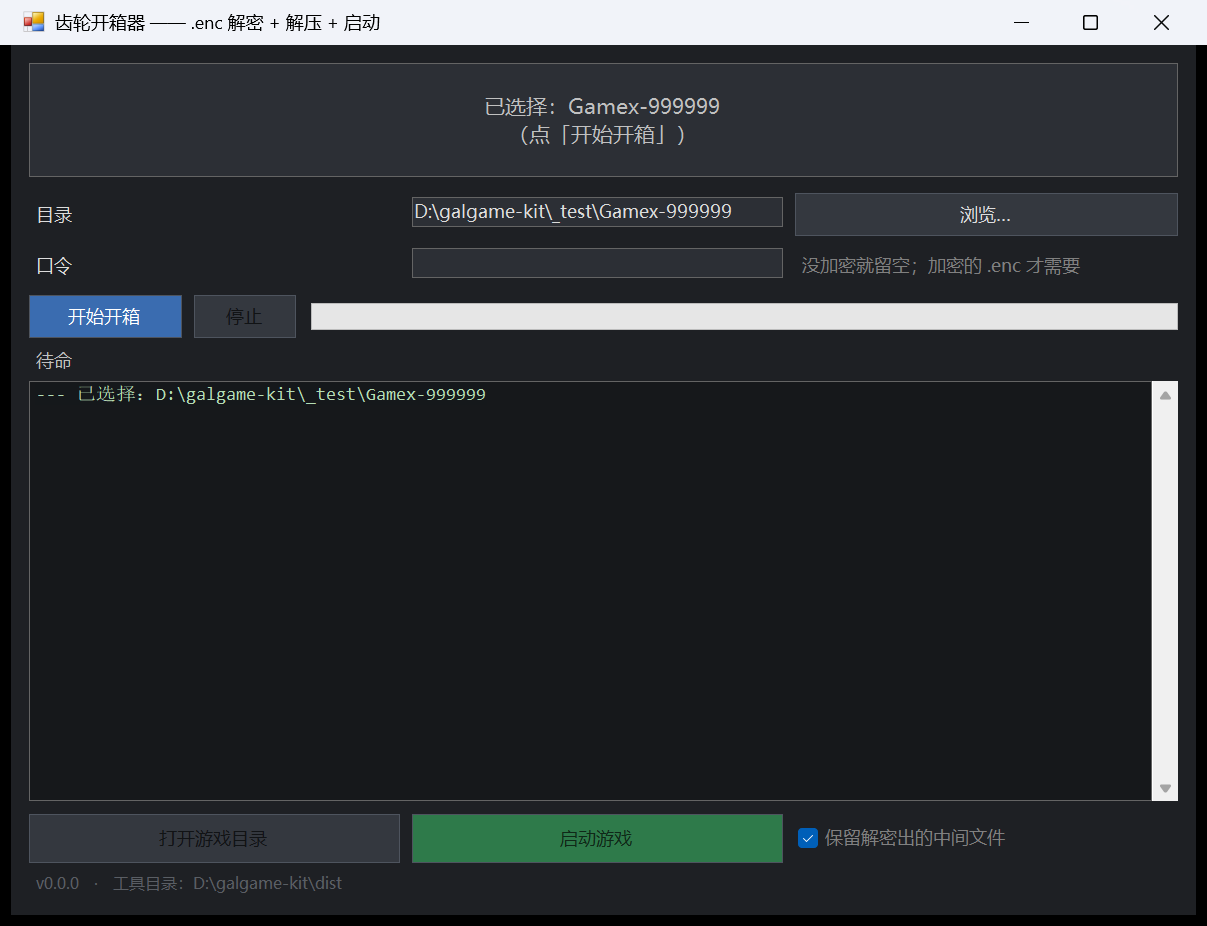
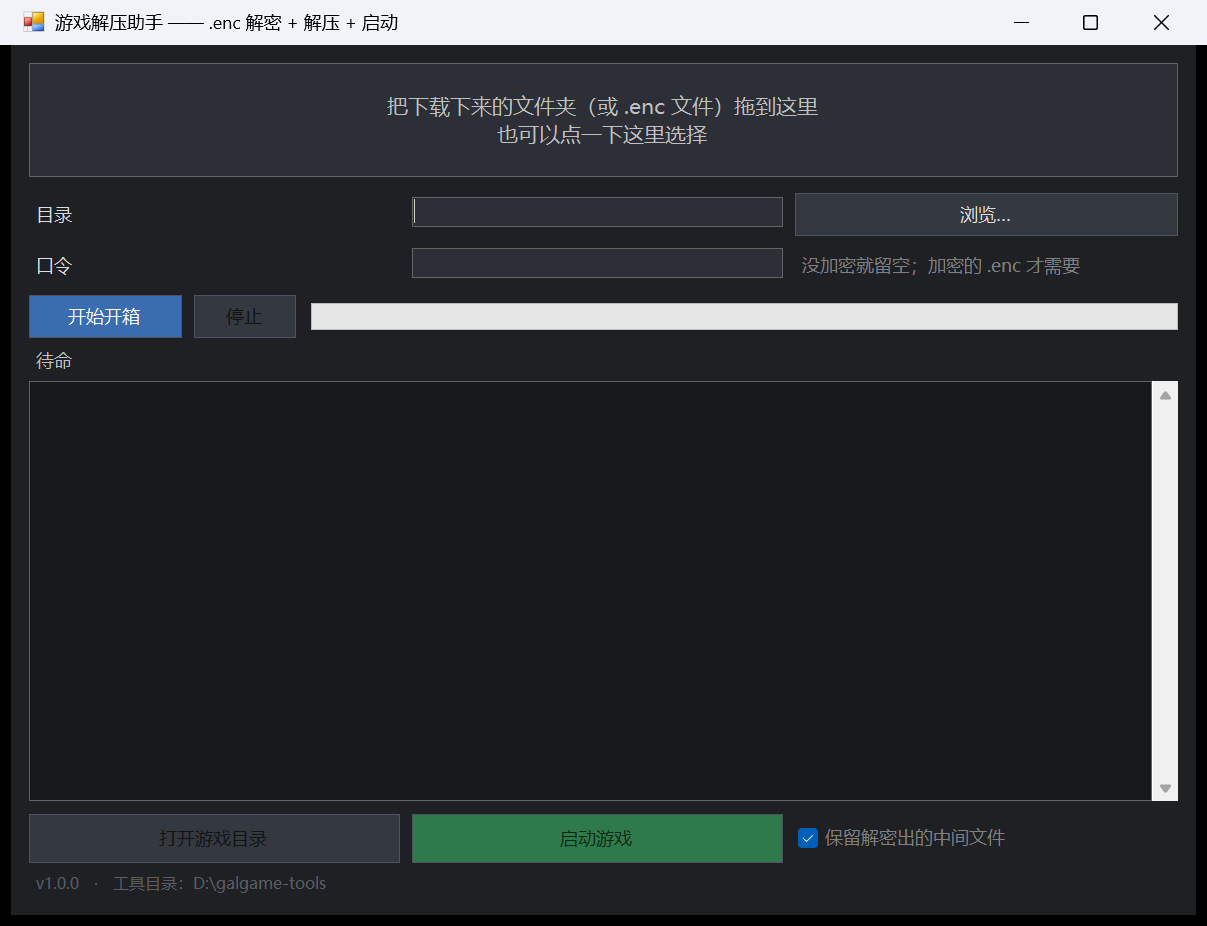
改名：齿轮开箱器 → 游戏解压助手
「齿轮」是我随手起的，对外没有任何信息量 —— 用户第一眼看到
这个名字，猜不到它是干什么的，也不知道它处理的是游戏。

改成「游戏解压助手」：说清了处理对象（游戏）、动作（解压）、
定位（助手，不是游戏本体）。这个名字不需要任何解释。

同时更新：窗口标题、关于框、设置文件注释、CLI 横幅、
README、开箱流程、app.manifest、build.ps1 产物名、shot.ps1 默认路径。

diff --git a/src/Gui/MainForm.cs b/src/Gui/MainForm.cs
@@ -59,7 +59,7 @@ namespace GalgameKit.Gui
             _startupArgs = args ?? new string[0];
             _logFile = Path.Combine(Path.GetTempPath(), "galgame-kit.log");
 
-            Text = "齿轮开箱器 —— .enc 解密 + 解压 + 启动";
+            Text = "游戏解压助手 —— .enc 解密 + 解压 + 启动";
             AutoScaleMode = AutoScaleMode.None;
 
             try
@@ -503,7 +503,7 @@ namespace GalgameKit.Gui
                 Close();
                 return;
             }
-            MessageBox.Show(this, message, "齿轮开箱器", MessageBoxButtons.OK, MessageBoxIcon.Warning);
+            MessageBox.Show(this, message, "游戏解压助手", MessageBoxButtons.OK, MessageBoxIcon.Warning);
         }
 
         void Finish(UnpackOutcome res)

diff --git a/src/Gui/Settings.cs b/src/Gui/Settings.cs
@@ -50,7 +50,7 @@ namespace GalgameKit.Gui
             try
             {
                 StringBuilder sb = new StringBuilder();
-                sb.AppendLine("# 齿轮开箱器设置。删掉这个文件就恢复默认。");
+                sb.AppendLine("# 游戏解压助手设置。删掉这个文件就恢复默认。");
                 sb.AppendLine("KeepIntermediate=" + (KeepIntermediate ? "1" : "0"));
                 File.WriteAllText(PathOf(appDir), sb.ToString(), new UTF8Encoding(false));
             }

diff --git a/src/AssemblyInfo.cs b/src/AssemblyInfo.cs
@@ -1,7 +1,7 @@
 using System.Reflection;
 using System.Runtime.InteropServices;
 
-[assembly: AssemblyTitle("齿轮开箱器 / GalgameKit")]
+[assembly: AssemblyTitle("游戏解压助手 / GalgameKit")]
 [assembly: AssemblyDescription(".enc 解密 + 分卷解压 + 启动，一站式开箱工具")]
 [assembly: AssemblyProduct("GalgameKit")]
 [assembly: AssemblyCopyright("MIT License")]

diff --git a/src/Cli/Program.cs b/src/Cli/Program.cs
@@ -107,7 +107,7 @@ namespace GalgameKit.Cli
 
         static void Usage()
         {
-            Console.WriteLine("齿轮开箱器 · 命令行版");
+            Console.WriteLine("游戏解压助手 · 命令行版");
             Console.WriteLine();
             Console.WriteLine("  galgame-kit-cli.exe [选项] <目录>");
             Console.WriteLine();

diff --git a/README.md b/README.md
@@ -1,4 +1,4 @@
-# 齿轮开箱器 · GalgameKit
+# 游戏解压助手 · GalgameKit
 
 把从某些资源站下载的 **`.enc` 加密分卷** 一路变成 **双击就能玩的游戏**：解密 → 合并分卷 → 解压 → 自动认出引擎和启动程序。
 
@@ -43,7 +43,7 @@ MyGame\                        ← 游戏本体，解压即玩，没有安装器
 
 ```
 galgame-kit\
-  齿轮开箱器.exe          ← 本程序
+  游戏解压助手.exe          ← 本程序
   galgame-kit-cli.exe
   7z.exe                 ← 7-Zip 的独立命令行版
   7z.dll
@@ -60,7 +60,7 @@ galgame-kit\
 
 ### 2. 用图形界面
 
-双击 `齿轮开箱器.exe` → 把下载的文件夹拖进窗口 → 口令填上 → 「开始开箱」→ 完成后点「启动游戏」。
+双击 `游戏解压助手.exe` → 把下载的文件夹拖进窗口 → 口令填上 → 「开始开箱」→ 完成后点「启动游戏」。
 
 ### 3. 用命令行
 
